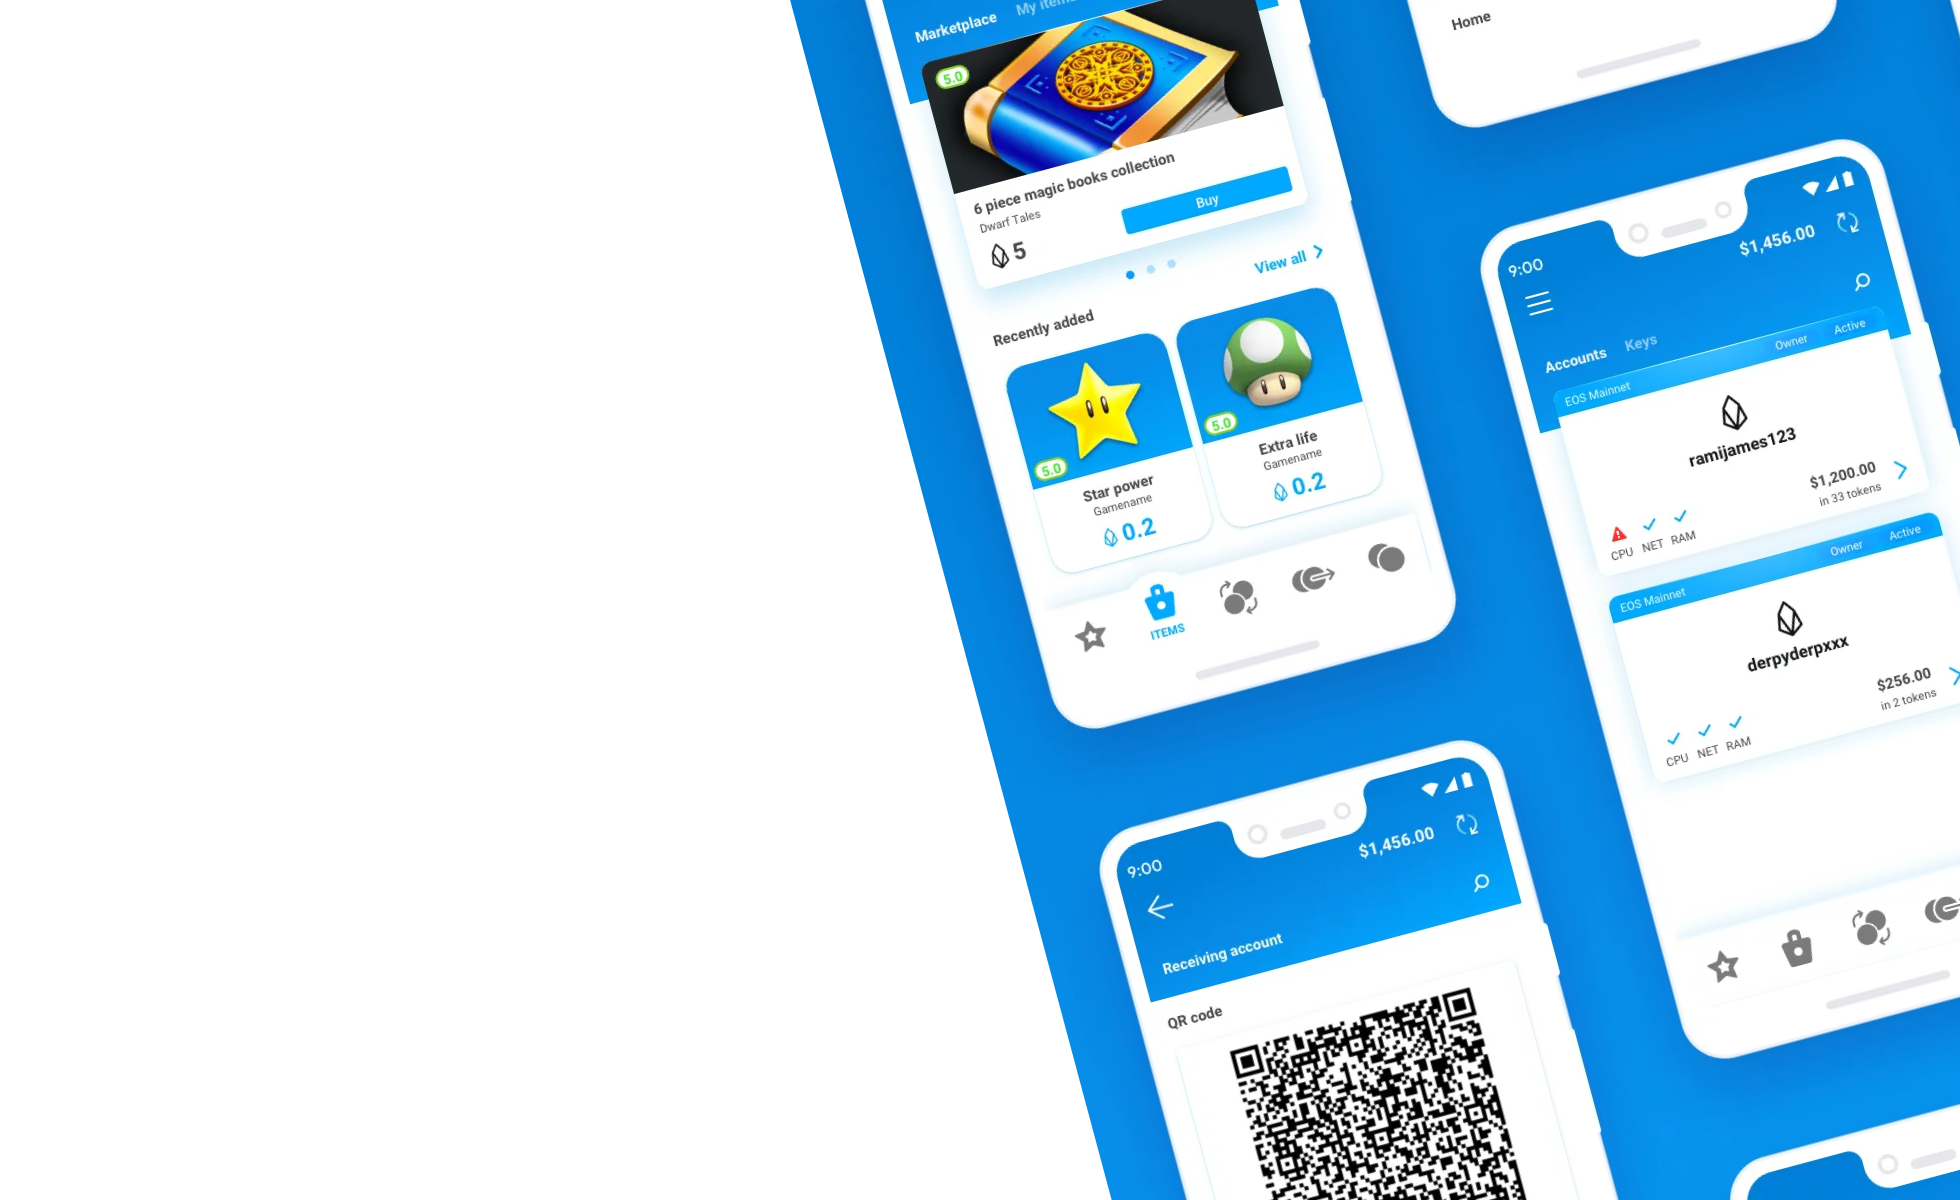
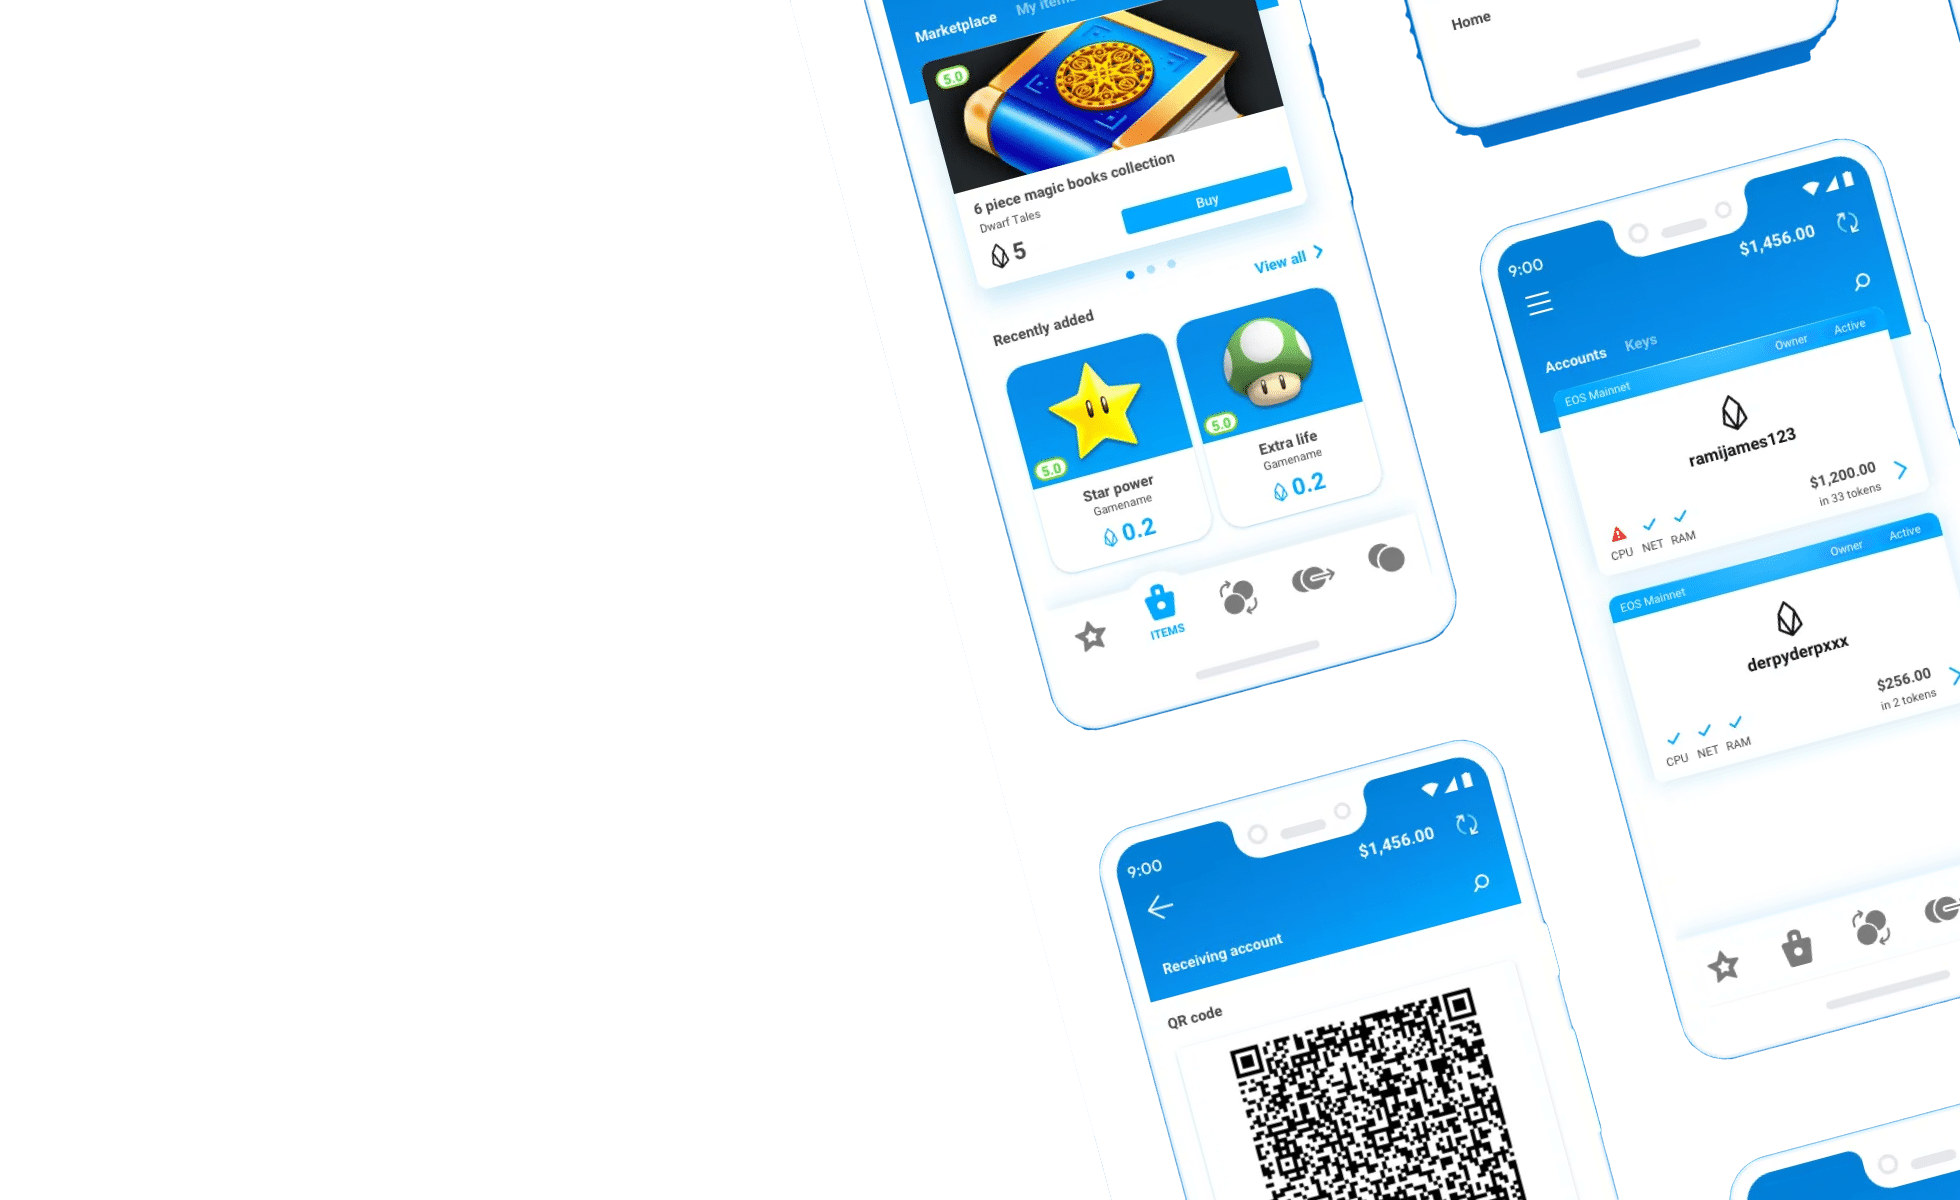
Style updates

Changed region(s): [[0.4046, 0.0, 1.0, 1.0], [0.5291, 0.0308, 0.5913, 0.0925]]

diff --git a/components/Projects.vue b/components/Projects.vue
@@ -1,9 +1,7 @@
 <template>
   <section id="projects" ref="projects">
     <section class="talk-to-me" ref="talkToMe">
-      <div>I MAKE INTERFACES</div>
-      <div>FOR THE FUTURE,</div>
-      <div class="together">WITH YOU IN MIND.</div>
+      <div>I make <span class="together">interfaces for the future</span> with your users in mind.</div>
     </section>
     <section class="portfolio" ref="portfolio">
       <section class="works">
@@ -138,24 +136,22 @@ export default {
     display:flex;
     flex-direction: column;
     justify-content: center;
-    gap: $spacing-xs;
     width:50vw;
     height:100vh;
     padding: $spacing-lg;
     color:$black;
     font-size: $font-size-xxl;
     font-weight:bold;
-    text-transform: uppercase;
     z-index: 2;
     position: sticky;
     top:0;
 
+    div {
+      border-left: 4px solid $blue;
+      padding-left: $spacing-md;
+    }
+
     @media screen and (max-width: 768px){
-      // width:100vw;
-      // height:calc($spacing-xl + 30vh);
-      // font-size: 6dvw;
-      // padding-top: calc($spacing-xl + 2rem);
-      // position: relative;
       display: none;
     }
 
@@ -170,9 +166,8 @@ export default {
     background: $black;
     font-size: $font-size-xl;
     font-weight:bold;
-    text-transform: uppercase;
     z-index: 2;
-    border-left: 2px solid $blue-light;
+    border-left: 4px solid $blue;
 
     @media screen and (max-width: 768px){
       width:100vw;
@@ -207,6 +202,8 @@ export default {
         scale:0.8; 
         position: relative;
         overflow: hidden;
+        perspective: 100em;
+        transform: rotate3d(0,0,0,15deg);
 
         @media screen and (max-width: 1400px){
           height:40vh;
@@ -247,6 +244,7 @@ export default {
 
           img {
             right: 0;
+            transform: rotate3d(66, -101, 10, 35deg) scale(1.1);
           }
         }
       }
@@ -262,7 +260,7 @@ export default {
     color:$white;
 
     .together {
-      color: $blue-light;
+      color: $blue;
     }
   }
 

diff --git a/components/Hero.vue b/components/Hero.vue
@@ -152,8 +152,9 @@ export default {
     position: relative;
     overflow: hidden;
     z-index: 10;
-    border-left: 2px solid $blue-light;
+    border-left: 4px solid $blue;
     align-items: flex-start;
+    background: $black radial-gradient(ellipse at top left, rgba($blue, 0.2) 0%, rgba($black, 100) 50%);
 
     @media screen and (max-width: 768px){
       width:100vw;
@@ -201,7 +202,7 @@ export default {
           bottom: -2px;
           left: 0;
           width: 100%;
-          height: 3px;
+          height: 4px;
           transition: all 0.9s ease-in-out;
           background-color: rgba($white, 0.3);
         }
@@ -212,7 +213,7 @@ export default {
           bottom: -2px;
           left: 0;
           width: 0;
-          height: 3px;
+          height: 4px;
           transition: width 0.9s;
           background-color: rgba($blue, 1);
         }

diff --git a/components/ThemeSwitcher.vue b/components/ThemeSwitcher.vue
@@ -100,7 +100,7 @@ img {
     background: linear-gradient(45deg, rgba($blue, 0.8), rgba($black, 0.2));
     transition: all 0.24s ease-in-out;
     border-radius: 50%;
-    box-shadow: inset 0 0 12px rgb(140, 228, 250), 0 0 10px 0 rgba($white, 0.5);
+    box-shadow: inset 0 0 12px rgba($blue, 0.4), 0 0 10px 0 rgba($white, 0.5);
   }
 
   &.light { /* SUN */

diff --git a/components/Woosh.vue b/components/Woosh.vue
@@ -48,7 +48,7 @@ export default {
   align-items: center;
   pointer-events: none;
   z-index: 0;
-  background: radial-gradient(ellipse at top, rgba($blue, 0.2) 0%, rgba($white, 0) 60%);
+  background: radial-gradient(ellipse at top right, rgba($blue, 0.2) 0%, rgba($white, 0) 60%);
 }
     .rotateGroup {
       transform-style: preserve-3d;
